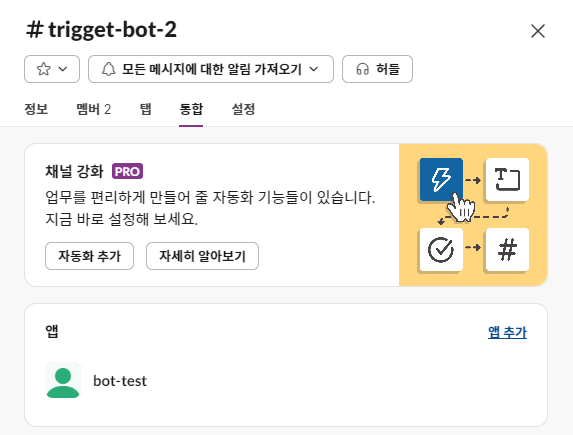
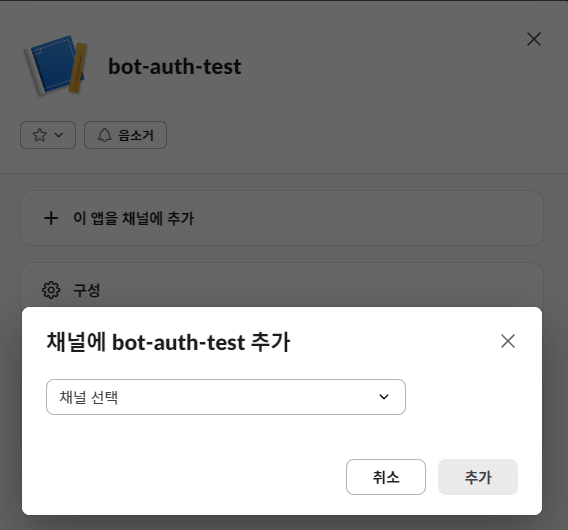
refactor: update slack user token guide

diff --git a/java-module/slack_user_guide.md b/java-module/slack_user_guide.md
@@ -25,22 +25,23 @@ to receive mc-o11y events and alarms within a Slack workspace.
 ## Step 3: Configure OAuth & Permissions
 
 1. Go to **OAuth & Permissions** in your app's settings. (OAuth & Permissions > Scopes > Add an OAuth Scope)
-2. Under the **Scopes** section, click **Add an OAuth Scope**.  
+2. Under the **Scopes** > **Bot Token Scopes** section, click **Add an OAuth Scope**.  
 ![img.png](images/img4.png)
 3. Ensure that the scope `chat:write` is included, as this is required to send messages from the bot.
 
 ## Step 4: Install the App in Slack
-![img.png](images/img5.png)
+![img.png](images/img7.png)
 1. In the app settings, navigate to the **Install App** section. (OAuth & Permissions > OAuth Tokens)
 2. Click **Install** (or **Reinstall**, if applicable).
 3. After installation, review and approve the required permissions.
 4. Upon successful installation, return to the **OAuth & Permissions** page and copy the **Bot User OAuth Token** for later use.
+![img.png](images/img5.png)
 
 ## Step 5: Create and Configure a Slack Channel
 
 1. Return to the slack workspace page.  
 2. Create the channel where your bot will operate (e.g., `trigger-bot`).
-3. Right-click the channel you created > Click 'View Channel Details' > Click 'Integrate' > 'Add App' > Add the app you created
+3. Right-click the app you created > Click 'View App Details' > Click 'Add this app to a channel' > Select the channel to receive the alarm > Add the app you created
 4. After completing the above course, you are ready to use the mc-o11y event/alarm function.
 ![img.png](images/img6.png)
 
